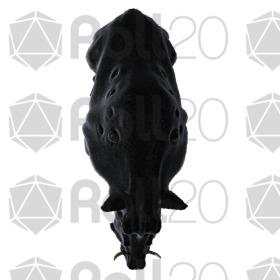
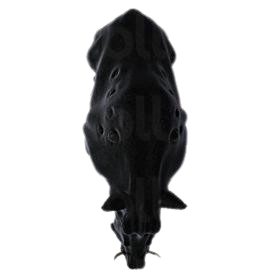
images updated
removed background

diff --git a/frontend/action.js b/frontend/action.js
@@ -62,13 +62,21 @@ connection.on("Attacked", function (id) {
  connection.on("drawObjects", function (Xes,Yes,Ids,Types) {
     for(i=0;i<Xes.length;i++){
         if(Types[i]=="tree"){
+<<<<<<< Updated upstream
             stationObjects.push(new objectcomponent(Xes[i], Yes[i], "green", 100, 100, Ids[i], Types[i]));
+=======
+            stationObjects.push(new othercomponent(Xes[i], Yes[i], "transparent", 100, 100, Ids[i], Types[i]));
+>>>>>>> Stashed changes
 
             objectSprites.push(new Sprite({x:Xes[i]-10,y:Yes[i]-10,width:120,height:120,
             imgSrc:'./image/tree.png'}));
 
         }else{
+<<<<<<< Updated upstream
             stationObjects.push(new objectcomponent(Xes[i], Yes[i], "gray", 100, 100, Ids[i], Types[i]));
+=======
+            stationObjects.push(new othercomponent(Xes[i], Yes[i], "transparent", 100, 100, Ids[i], Types[i]));
+>>>>>>> Stashed changes
 
             objectSprites.push(new Sprite({x:Xes[i]-30,y:Yes[i]-35,width:160,height:160,
             imgSrc:'./image/rock.png'}));
@@ -99,12 +107,20 @@ connection.on("drawEnteties", function (Xes,Yes,Hps,Ids,Types) {
     if(numbr<Xes.length){
         for(i=numbr;i<Xes.length;i++){
             if(Types[i]=="rabit"){
+<<<<<<< Updated upstream
                 mobileEntities.push(new entitycomponent(Xes[i], Yes[i], "yellow", 30, 30, Ids[i], Types[i],Hps[i]));
+=======
+                mobileEntities.push(new othercomponent(Xes[i], Yes[i] , "transparent" ,30, 30, Ids[i], Types[i]));
+>>>>>>> Stashed changes
 
                 entitySprites.push(new Sprite({x:Xes[i],y:Yes[i],width:30,height:30,
                     imgSrc:'./image/bunny.png'}));
             }else{
+<<<<<<< Updated upstream
                 mobileEntities.push(new entitycomponent(Xes[i], Yes[i], "pink", 50, 50, Ids[i], Types[i],Hps[i]));
+=======
+                mobileEntities.push(new othercomponent(Xes[i], Yes[i], "transparent" ,50, 50, Ids[i], Types[i]));
+>>>>>>> Stashed changes
 
                 entitySprites.push(new Sprite({x:Xes[i],y:Yes[i],width:50,height:50,
                     imgSrc:'./image/pig_maybe.png'}));
@@ -132,7 +148,11 @@ var playerid=-1 , isplayer=false ,numbr=0;
 //  * * *
 //  * * *
 function startGame() {
+<<<<<<< Updated upstream
     myGamePieces.push(new playercomponent(playerCodinateX, playerCodinateY, "blue", playerWidth, playerHeight, playerHealth));
+=======
+    myGamePieces.push(new playercomponent(playerCodinateX, playerCodinateY, "transparent", playerWidth, playerHeight));
+>>>>>>> Stashed changes
     
     playrsprites.push(new Sprite({x:playerCodinateX,y:playerCodinateY,width:playerWidth,height:playerHeight,
         imgSrc:'./image/Coolplayer.webp'}));
@@ -319,7 +339,11 @@ function updateGameArea() {
     myGameArea.clear();
     backbackground.draw();
     background.draw();
+<<<<<<< Updated upstream
     //console.log(value_);
+=======
+    
+>>>>>>> Stashed changes
 
 
     myGamePieces.forEach(myGamePiece=>{
